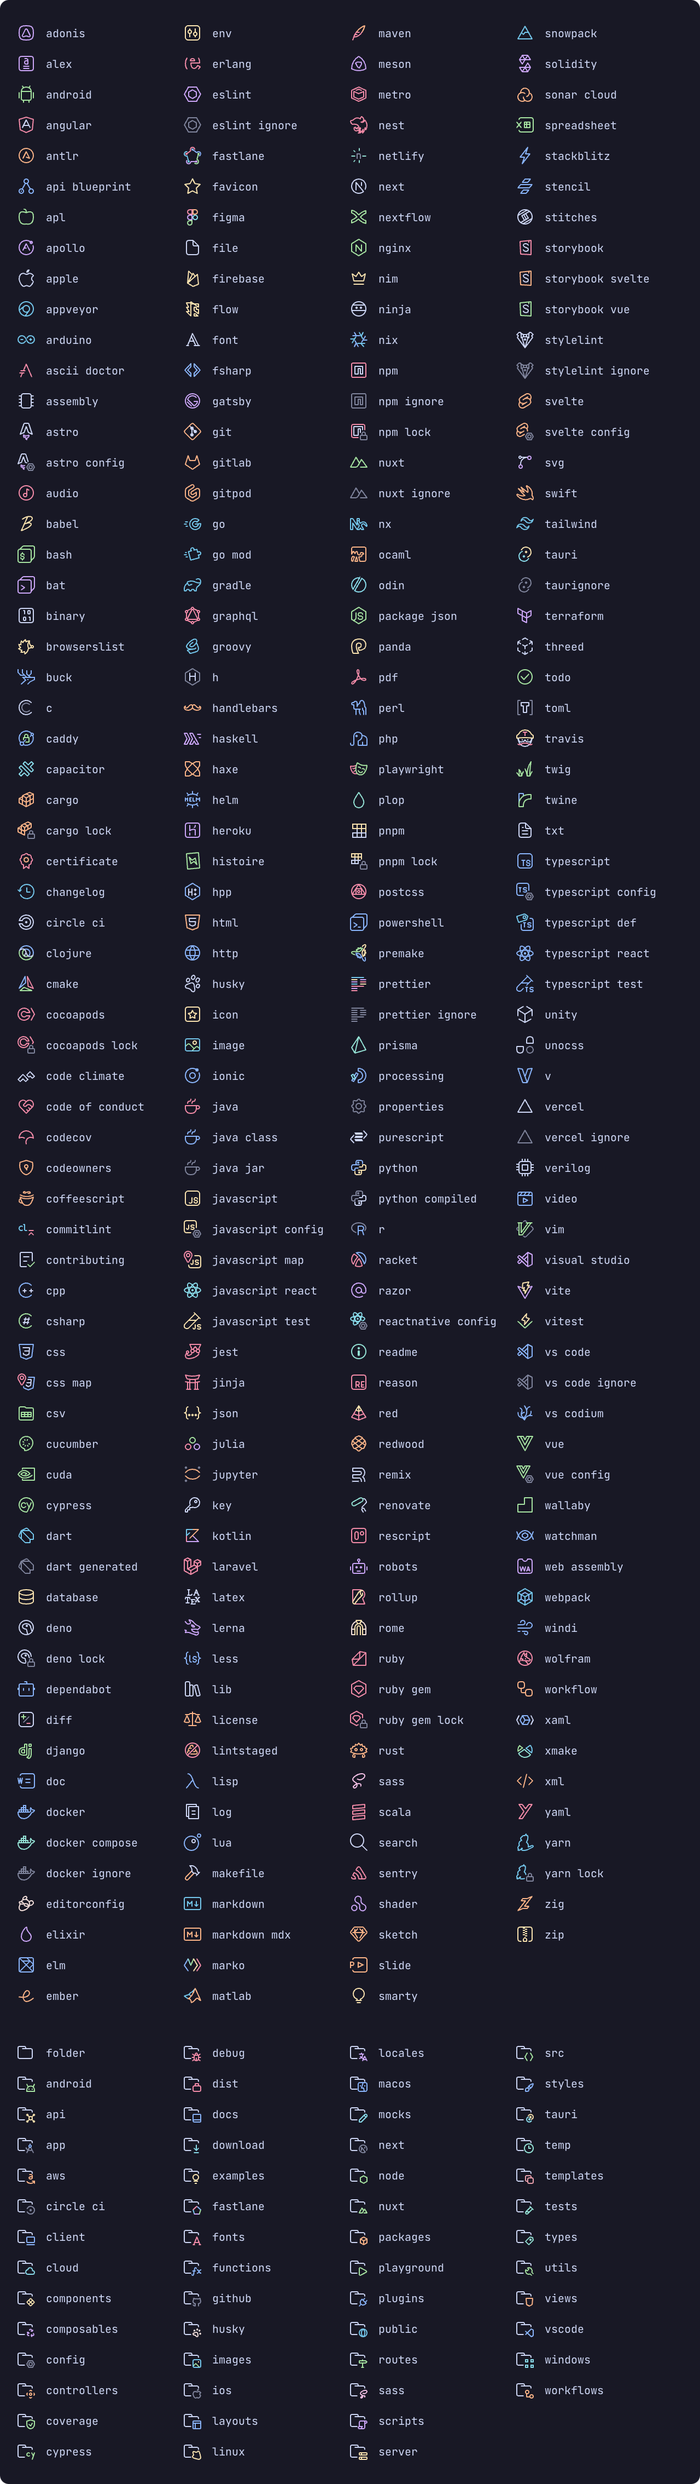
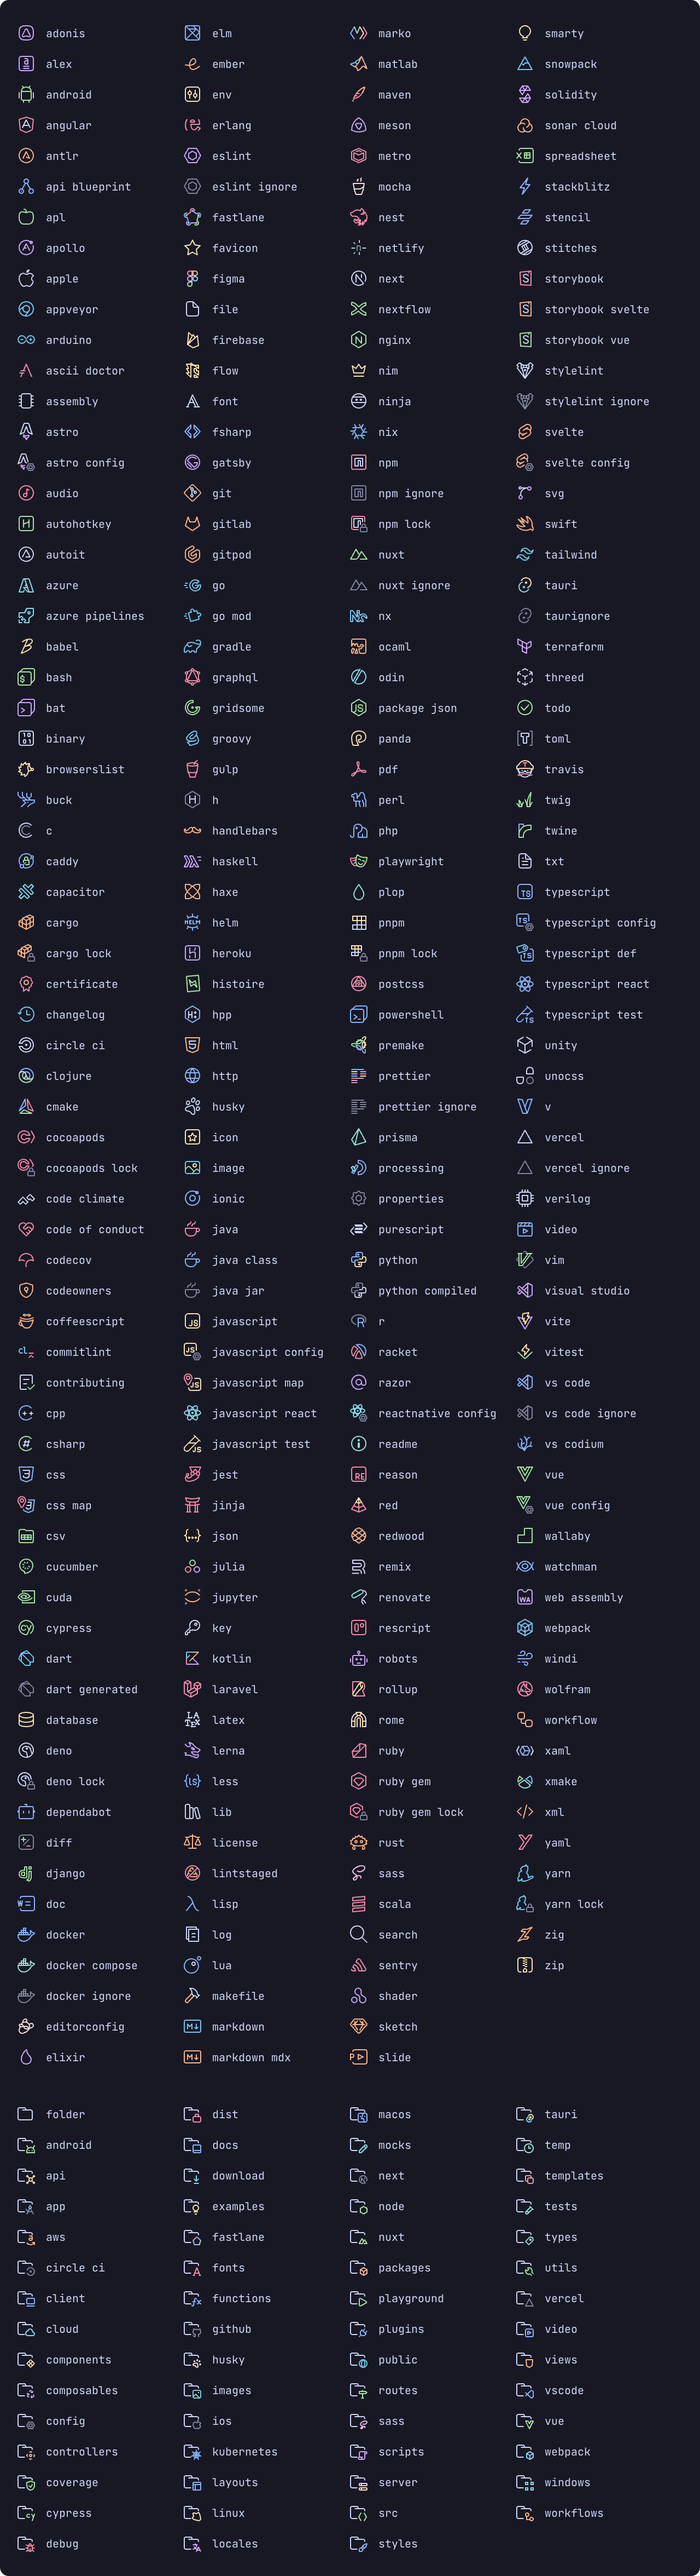
Add more folders

diff --git a/src/associations/folders.ts b/src/associations/folders.ts
@@ -1,8 +1,16 @@
 export const folders: IconMap = {
   folder_android: ['android'],
   folder_api: ['api', 'apis', 'restapi'],
-  folder_app: ['app', 'apps', 'application'],
-  folder_aws: ['aws', '.aws'],
+  folder_app: ['app', 'apps', 'application', 'project', 'projects'],
+  folder_aws: ['aws', '.aws', 'amazon', 'ec2'],
+  folder_benchmark: [
+    'benchmark',
+    'benchmarks',
+    'performance',
+    'measure',
+    'measures',
+    'measurement',
+  ],
   folder_circle_ci: ['.circleci'],
   folder_client: ['client', 'clients', 'frontend', 'pwa'],
   folder_cloud: ['azure', 'cloud', 'clouds'],
@@ -113,6 +121,7 @@ export const folders: IconMap = {
     'pictures',
   ],
   folder_ios: ['ios'],
+  folder_kubernetes: ['kubernetes', '.kubernetes'],
   folder_layouts: ['layout', 'layouts', '_layouts'],
   folder_linux: ['linux'],
   folder_locales: [
@@ -193,9 +202,13 @@ export const folders: IconMap = {
   ],
   folder_types: ['typings', '@types', 'types'],
   folder_utils: ['tools', 'tooling', 'util', 'utils', 'utility', 'utilities'],
+  folder_vercel: ['vercel', '.vercel', 'now', '.now'],
+  folder_video: ['vid', 'vids', 'video', 'videos', 'movie', 'movies'],
   folder_views: ['view', 'views', 'screen', 'screens', 'page', 'pages', 'html'],
   folder_vscode: ['.vscode', '.vscode-test'],
+  folder_vue: ['vue'],
   folder_windows: ['windows'],
+  folder_webpack: ['.webpack', 'webpack'],
   folder_workflows: ['workflow', 'workflows', 'ci', '.ci'],
 }
 

diff --git a/src/associations/files.ts b/src/associations/files.ts
@@ -12,6 +12,7 @@ export const files: IconMap = {
     'astro.config.cts',
     'astro.config.mts',
   ],
+  azure_pipelines: ['azure-pipelines.yml', 'azure-pipelines.yaml'],
   babel: [
     '.babelrc',
     '.babelrc.cjs',
@@ -187,6 +188,7 @@ export const files: IconMap = {
     '.eslintrc-md.js',
     '.eslintrc-jsdoc.js',
     '.eslintrc',
+    'eslint.config.js',
   ],
   eslint_ignore: ['.eslintignore', '.eslintcache'],
   fastlane: ['fastfile', 'fastlane/appfile', 'fastlane/pluginfile'],
@@ -238,6 +240,15 @@ export const files: IconMap = {
     'graphql.config.toml',
     'graphql.config.yaml',
     'graphql.config.yml',
+  ],
+  gridsome: ['gridsome.config.js', 'gridsome.server.js'],
+  gulp: [
+    'gulpfile.js',
+    'gulpfile.mjs',
+    'gulpfile.ts',
+    'gulpfile.cts',
+    'gulpfile.mts',
+    'gulpfile.babel.js',
   ],
   helm: ['.helmignore'],
   heroku: ['procfile', 'procfile.windows'],
@@ -349,6 +360,14 @@ export const files: IconMap = {
   maven: ['maven.config', 'jvm.config', 'pom.xml'],
   meson: ['meson.build', 'meson_options.txt'],
   metro: ['metro.config.js', 'metro.config.ts'],
+  mocha: [
+    'mocha.opts',
+    '.mocharc.yml',
+    '.mocharc.yaml',
+    '.mocharc.js',
+    '.mocharc.json',
+    '.mocharc.jsonc',
+  ],
   netlify: [
     'netlify.json',
     'netlify.yml',

diff --git a/src/associations/extensions.ts b/src/associations/extensions.ts
@@ -23,6 +23,9 @@ export const extensions: IconMap = {
   ],
   astro: ['astro'],
   audio: ['mp3', 'wma', 'wav', 'm4a', 'flac', 'aiff'],
+  autohotkey: ['ahk'],
+  autoit: ['au3', 'a3x'],
+  azure: ['azcli'],
   bash: ['bash', 'sh', 'awk'],
   bat: ['bat'],
   binary: ['bin'],

diff --git a/README.md b/README.md
@@ -1,23 +1,23 @@
 <h3 align="center">
-  <img src="https://raw.githubusercontent.com/thang-nm/Catppuccin-Perfect-Icons/main/logo.png" width="200" alt="Logo"/><br/>
+  <img src="https://raw.githubusercontent.com/thang-nm/Catppuccin-Perfect-Icons/main/logo.png" width="160" alt="Logo"/><br/>
   <img src="https://raw.githubusercontent.com/catppuccin/catppuccin/main/assets/misc/transparent.png" height="30" width="0px"/>
   <a href="https://github.com/thang-nm/Catppuccin-Perfect-Icons">Catppuccin Perfect Icons</a>
   <img src="https://raw.githubusercontent.com/catppuccin/catppuccin/main/assets/misc/transparent.png" height="30" width="0px"/>
 </h3>
 
 <p align="center">
-  (Pixel perfect + More icons + More palettes)
+  Pixel perfect + More icons + More palettes
+  <br />
+  Look good on non-retina display. (<a target="_blank" href="https://raw.githubusercontent.com/thang-nm/Catppuccin-Perfect-Icons/main/assets/previews/mocha-icons.png">Preview ↗</a>)
 </p>
 
 <p align="center">
-  <a><img src="https://img.shields.io/github/directory-file-count/thang-nm/Catppuccin-Perfect-Icons/src/icons?label=icons&colorA=363a4f&colorB=eed49f&style=for-the-badge"></a>
+  <img src="https://img.shields.io/github/directory-file-count/thang-nm/Catppuccin-Perfect-Icons/src/icons?label=icons&colorA=363a4f&colorB=eed49f&style=for-the-badge">
+  <img src="https://img.shields.io/badge/palettes-5-_?colorA=363a4f&colorB=b7bdf8&style=for-the-badge">
 </p>
 
 <p align="center">
-  <picture>
-    <source srcset="assets/previews/mocha-icons@2x.png 2x">
-    <img src="assets/previews/mocha-icons.png">
-  </picture>
+  <img width="640" src="https://raw.githubusercontent.com/thang-nm/Catppuccin-Perfect-Icons/main/assets/previews/mocha-icons@2x.png">
 </p>
 
 ## Usage
